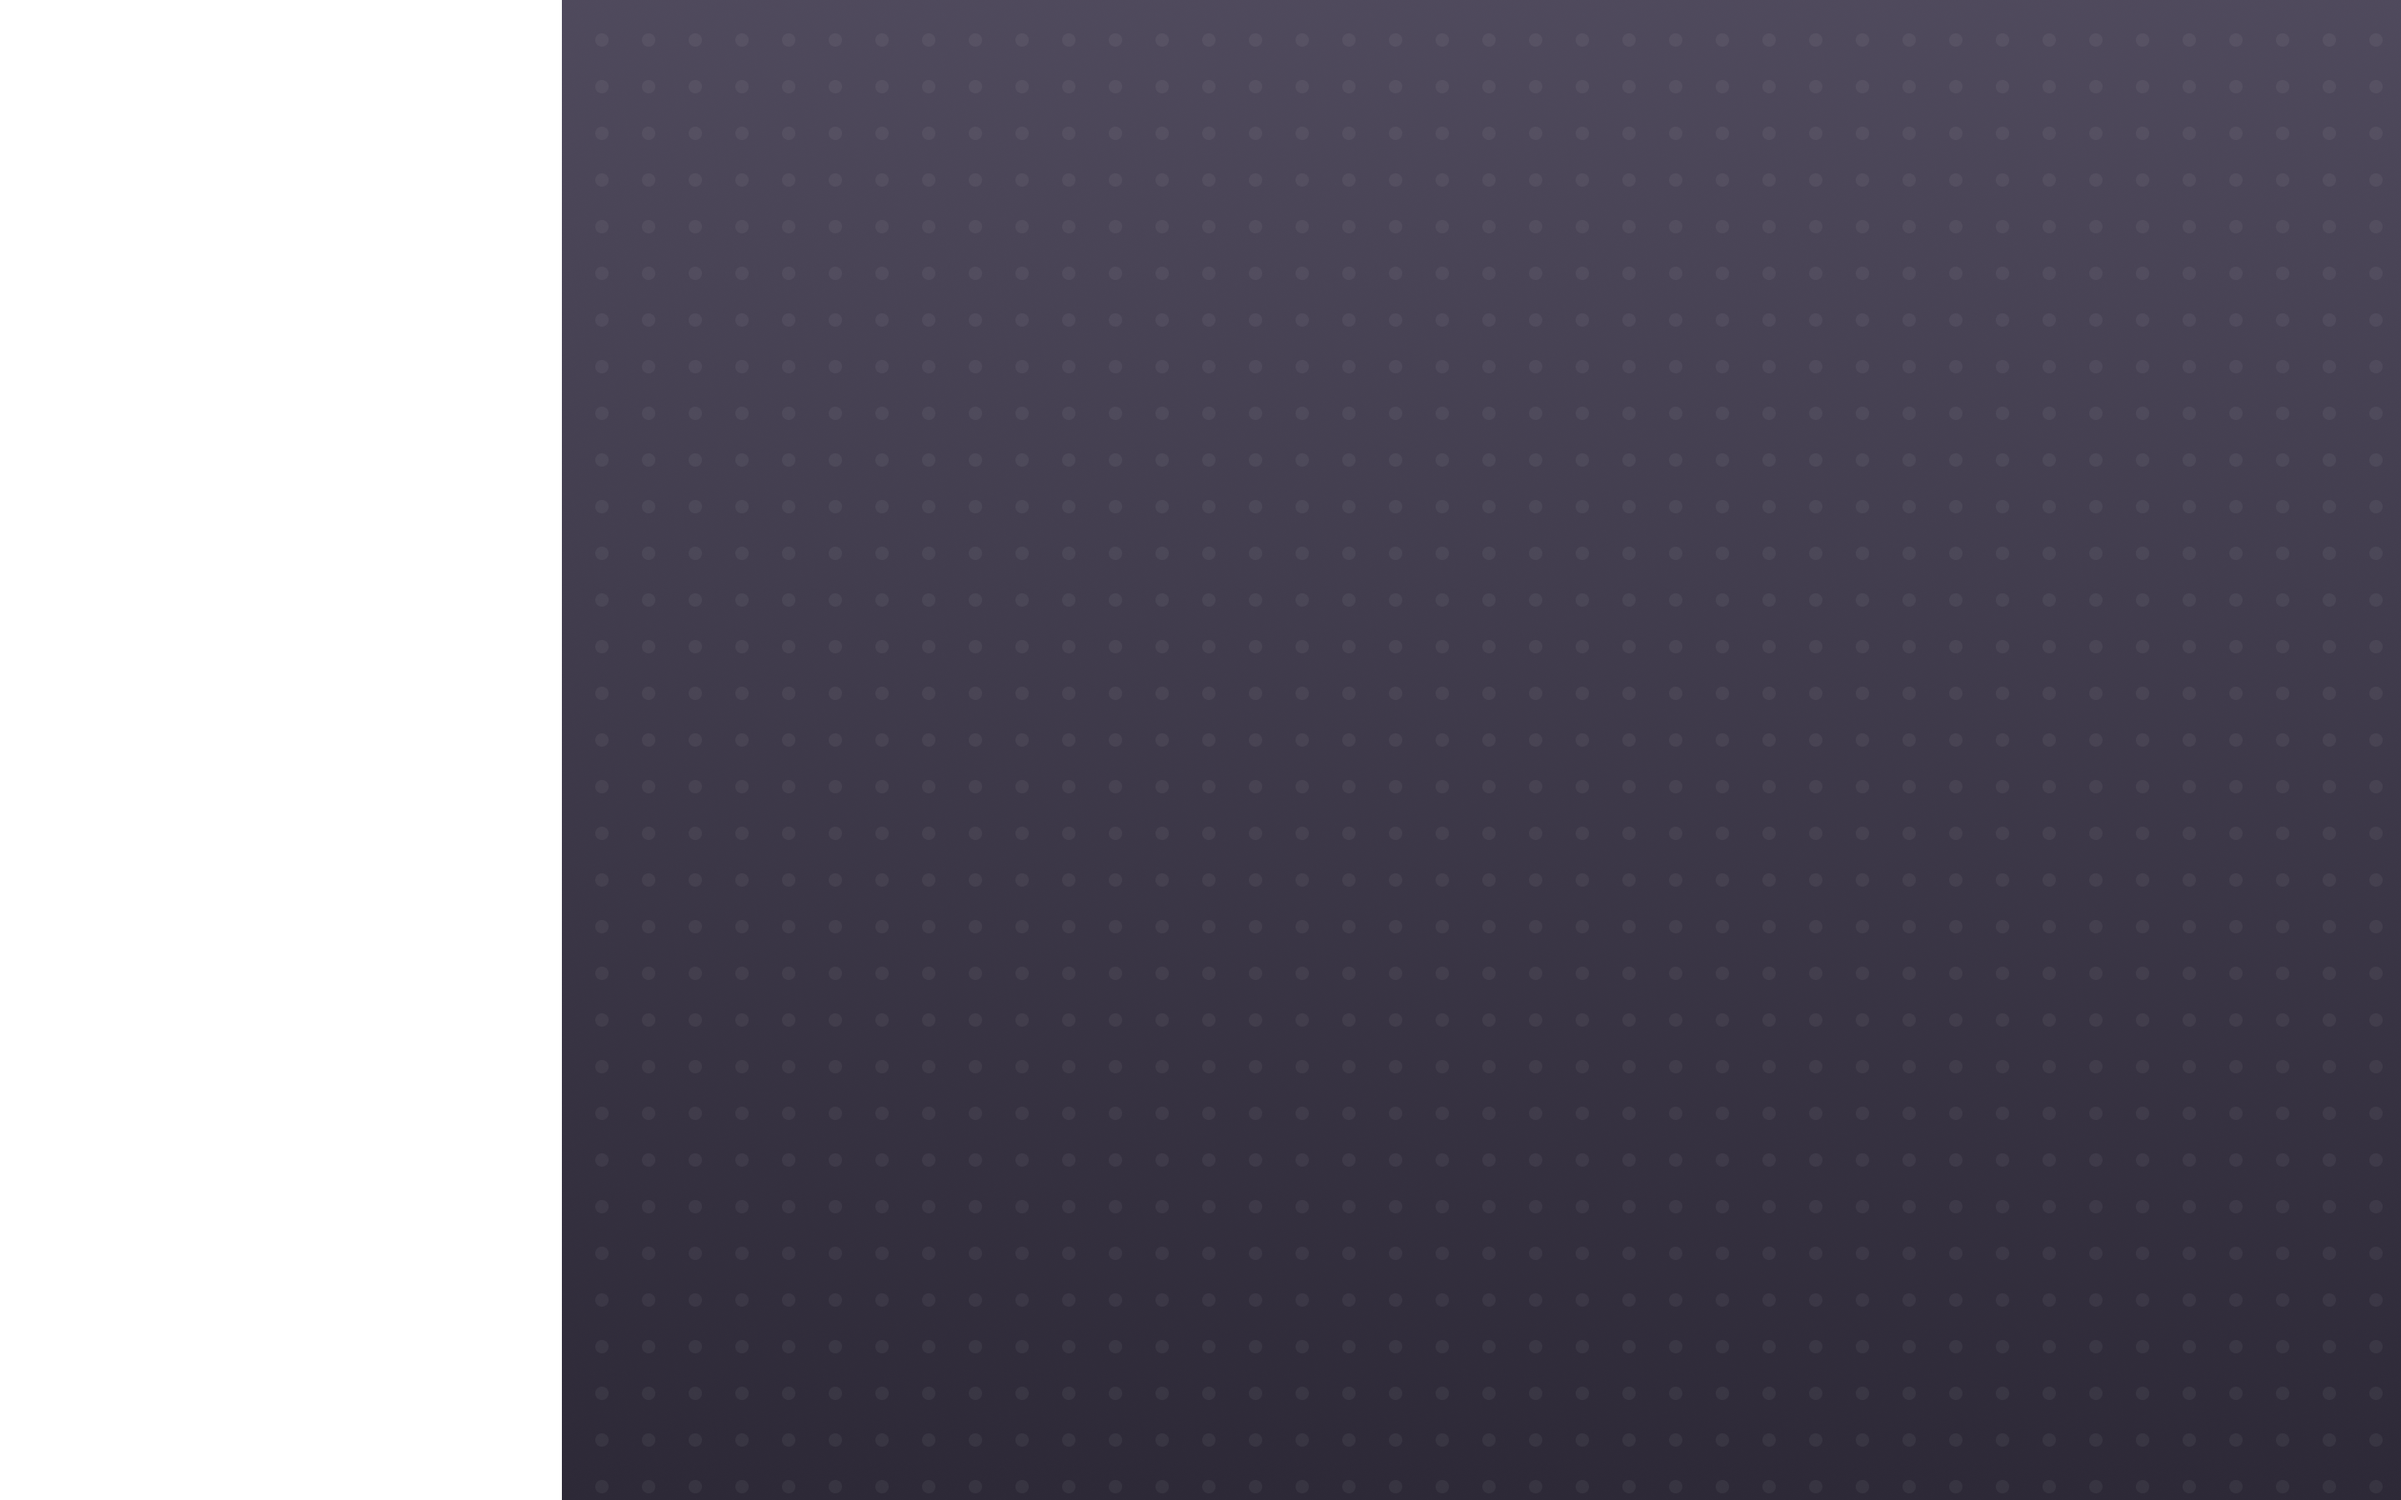
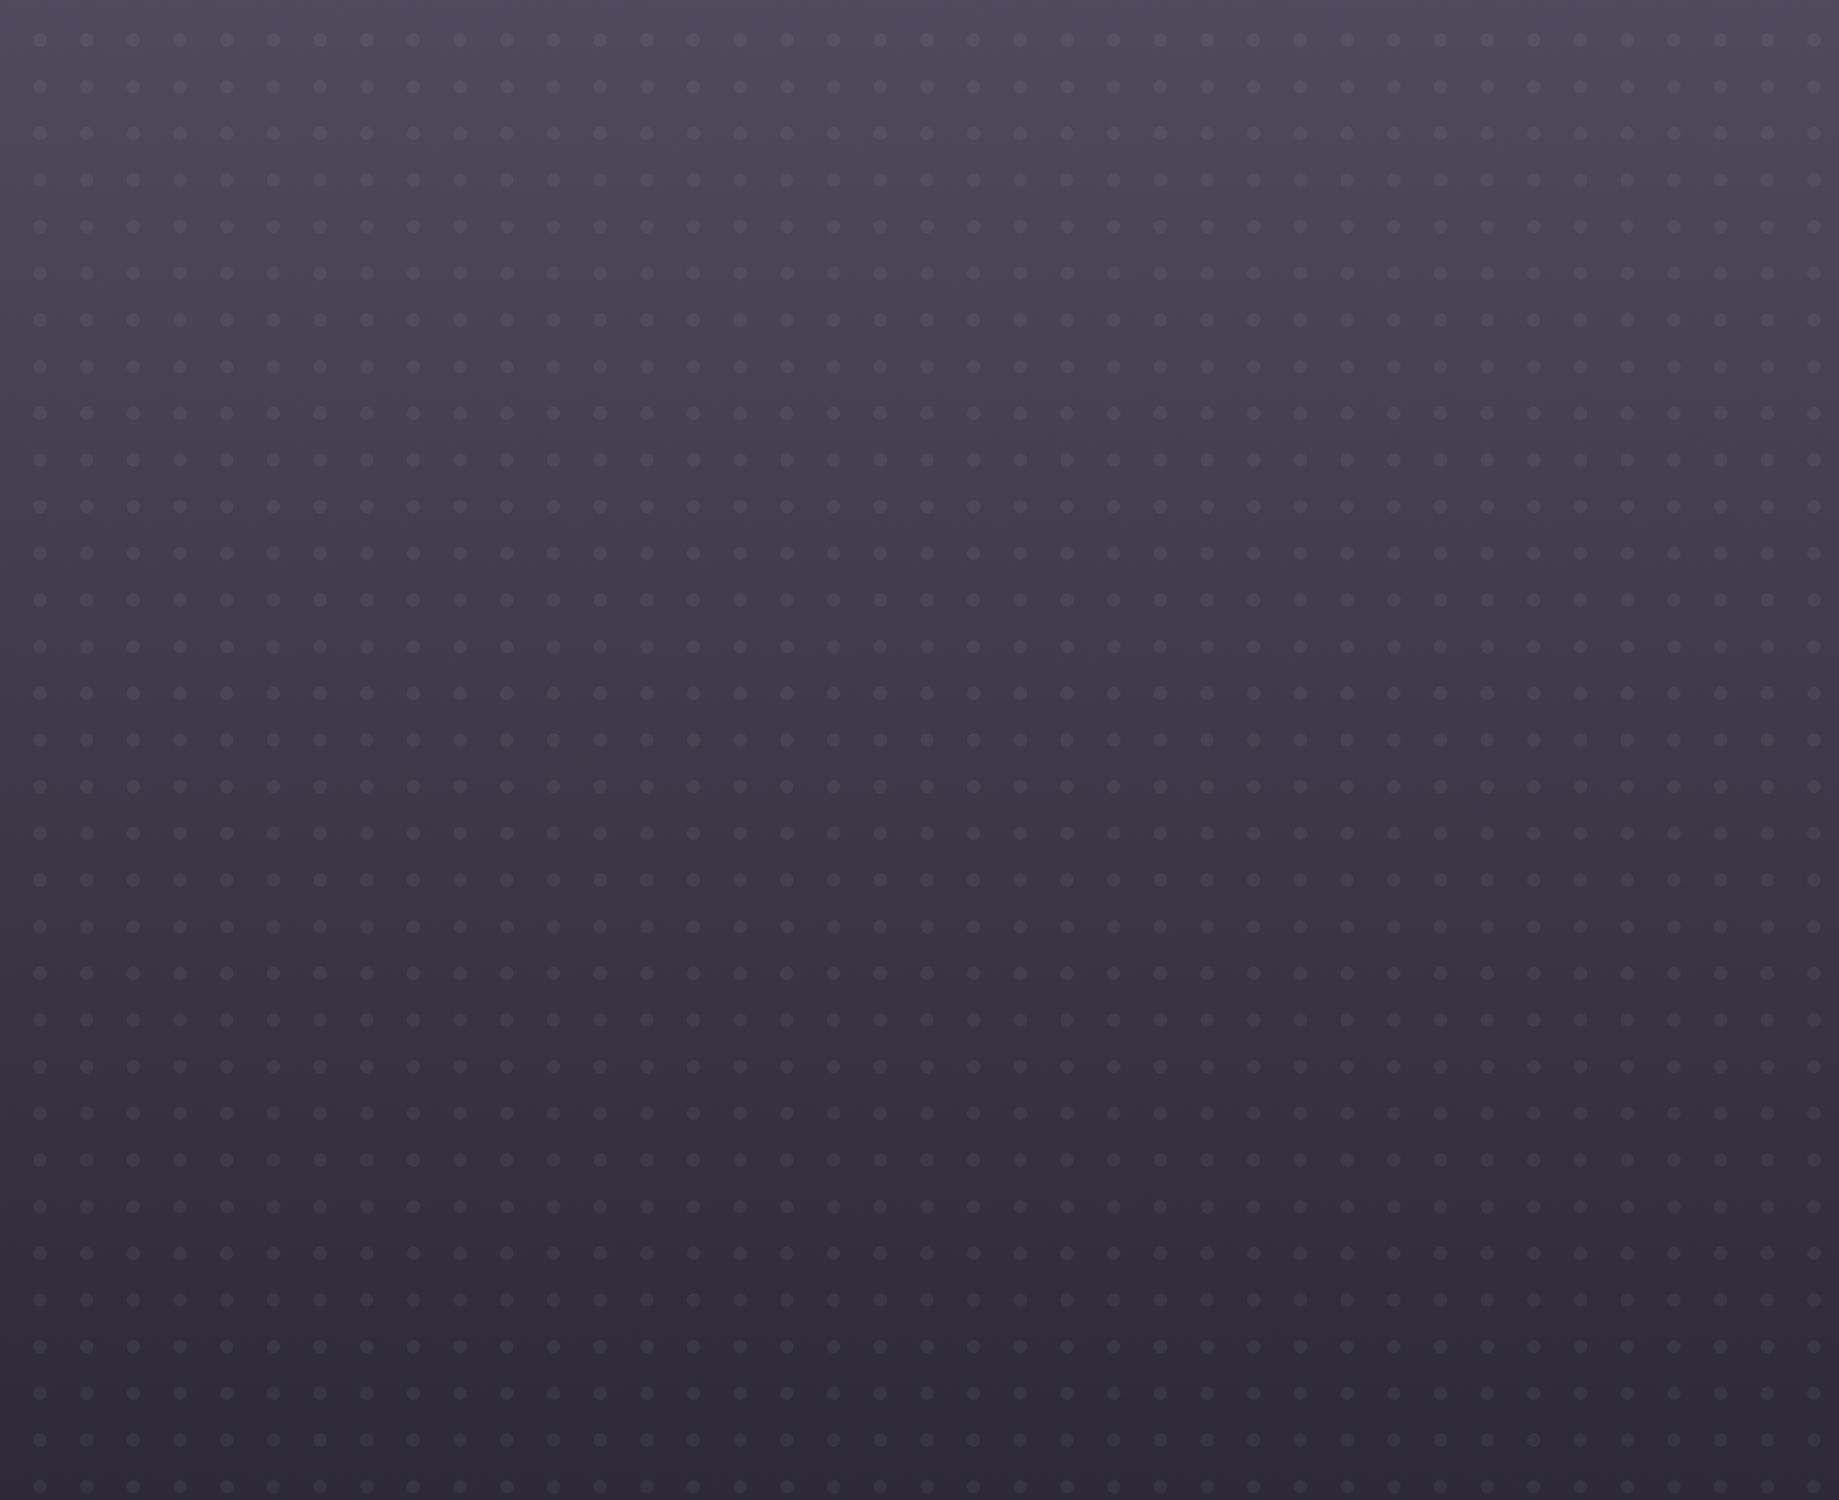
changed backgroundImage to cover the entire screen

Changed region(s): [[0.0, 0.0, 0.2466, 1.0]]

diff --git a/pages/index.js b/pages/index.js
@@ -8,12 +8,6 @@ import background from '../public/backgroundImage.png'
 import nwPlusLogo from '../public/nwPlusLogo.png'
 import signIn from '../public/signIn.png'
 
-// const Container = styled.div`
-//     display: flex;
-//     flex-direction: row;
-//     flex-wrap: wrap;
-// `
-
 const BackgroundContainer = styled.div`
     background-image: url(${background});
     background-size: cover;
@@ -26,7 +20,8 @@ const LeftContainer = styled.div`
     align-items: center;
     flex-direction: column;
     height: 100vh;
-    width: 23.3vw;
+    width: 337px;
+    background-color: white;
 `
 
 const LogoImage = styled.img`
@@ -108,6 +103,7 @@ export default function Home() {
             {isAddingClaim && <StatusDiv>Authorizing user...</StatusDiv>}
           </LeftContainer>
       </BackgroundContainer>
+      
     </>
   )
 }
